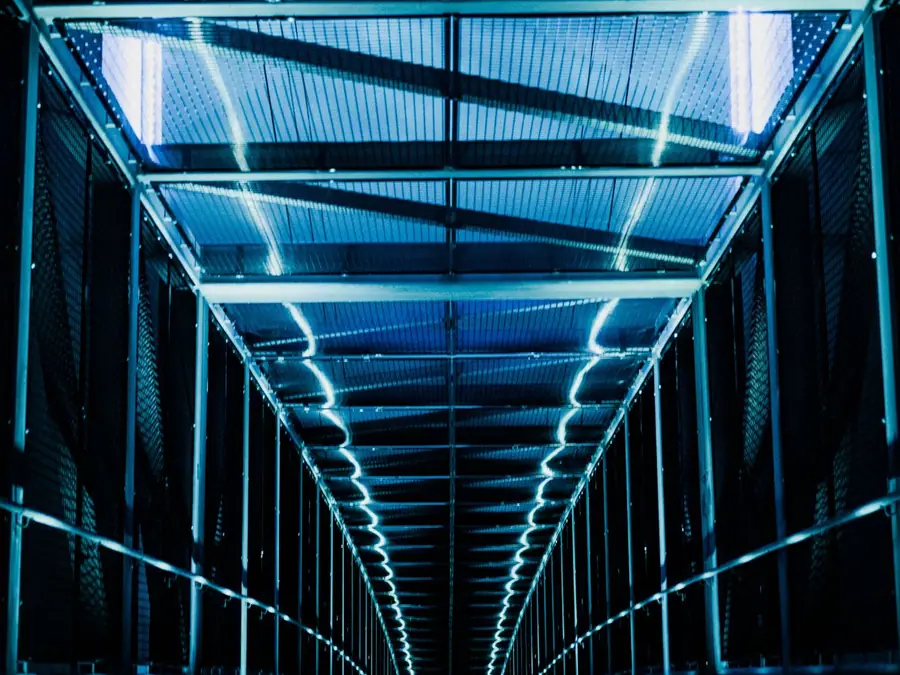
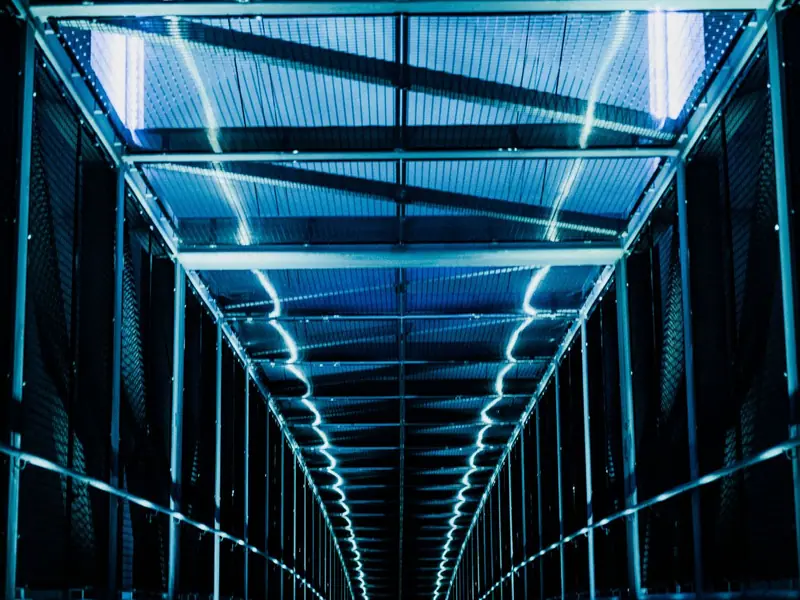
Services: photos for the three cards; per-slot WebP sizes
- IMG-02 blade chassis (rental), IMG-03 three server systems (supply), IMG-04 optical
  cabling (setup and support): supplied photos, cropped to the 16:10 card slot,
  desktop 1000x625 (61-90 KB), phone 800x500 (44-62 KB); originals kept in photos/src
- Status "стоковое фото"; source and licence still to be confirmed (docs/PHOTO-CREDITS.md)
- npm run photos sizes the desktop file by slot (cards 1000 px, big frames up to 1600 px)

Claude-Session: https://claude.ai/code/session_012UahhkYDRWiccmdeJi4vvp

diff --git a/src/content/image-overrides.generated.ts b/src/content/image-overrides.generated.ts
@@ -3,5 +3,8 @@ import type { ImageOverride } from "./image-types";
 import type { ImageId } from "./images";
 
 export const photoOverrides: Partial<Record<ImageId, ImageOverride>> = {
-  "img-01": {"desktop":{"src":"/images/photos/img-01-d.webp","width":1280,"height":1600},"mobile":{"src":"/images/photos/img-01-m.webp","width":900,"height":675},"alt":"Коридор дата-центра: ряды серверных стоек за сетчатыми ограждениями и синяя подсветка, уходящая вдаль","status":"стоковое фото","objectPosition":"50% 72%"},
+  "img-01": {"desktop":{"src":"/images/photos/img-01-d.webp","width":1280,"height":1600},"mobile":{"src":"/images/photos/img-01-m.webp","width":800,"height":600},"alt":"Коридор дата-центра: ряды серверных стоек за сетчатыми ограждениями и синяя подсветка, уходящая вдаль","status":"стоковое фото","objectPosition":"50% 72%"},
+  "img-02": {"desktop":{"src":"/images/photos/img-02-d.webp","width":1000,"height":625},"mobile":{"src":"/images/photos/img-02-m.webp","width":800,"height":500},"alt":"Блейд-шасси крупным планом: ряд серверных модулей с индикаторами и один выдвинутый модуль в синей подсветке","status":"стоковое фото","objectPosition":"55% 50%"},
+  "img-03": {"desktop":{"src":"/images/photos/img-03-d.webp","width":1000,"height":625},"mobile":{"src":"/images/photos/img-03-m.webp","width":800,"height":500},"alt":"Три серверных системы в корпусах на полке в синей подсветке","status":"стоковое фото","objectPosition":"50% 55%"},
+  "img-04": {"desktop":{"src":"/images/photos/img-04-d.webp","width":1000,"height":625},"mobile":{"src":"/images/photos/img-04-m.webp","width":800,"height":500},"alt":"Оптическая коммутация: патч-корды с разъёмами LC и маркировкой, подключённые к кроссовой панели","status":"стоковое фото","objectPosition":"35% 50%"},
 };

diff --git a/tools/images/generate.py b/tools/images/generate.py
@@ -125,7 +125,7 @@ def main() -> None:
         "```",
         "",
         "`npm run photos` обрезает каждое фото точно под пропорции слота (рабочее поле — `objectPosition`), "
-        "сжимает в WebP (десктоп до 1600 px по длинной стороне, телефон до 900 px; бюджет ~220 и ~110 КБ), пишет файлы в "
+        "сжимает в WebP (десктоп по размеру слота: 1000 px для карточек, до 1600 px для крупных кадров; телефон до 800 px; бюджет ~220 и ~110 КБ), пишет файлы в "
         "`public/images/photos/`, подключает их через `src/content/image-overrides.generated.ts` и обновляет "
         "`docs/PHOTO-CREDITS.md`. Статус: `реальная фотография` (подписи не нужны) или `стоковое фото` "
         "(на картинке и в подписи галереи появляется «Иллюстративное фото», кадр не выдаётся за площадку компании).",

diff --git a/docs/IMAGES.md b/docs/IMAGES.md
@@ -13,7 +13,7 @@
              "credit": { "author": "Имя автора", "url": "https://www.pexels.com/photo/…", "title": "Название", "license": "Pexels License" } } }
 ```
 
-`npm run photos` обрезает каждое фото точно под пропорции слота (рабочее поле — `objectPosition`), сжимает в WebP (десктоп до 1600 px по длинной стороне, телефон до 900 px; бюджет ~220 и ~110 КБ), пишет файлы в `public/images/photos/`, подключает их через `src/content/image-overrides.generated.ts` и обновляет `docs/PHOTO-CREDITS.md`. Статус: `реальная фотография` (подписи не нужны) или `стоковое фото` (на картинке и в подписи галереи появляется «Иллюстративное фото», кадр не выдаётся за площадку компании).
+`npm run photos` обрезает каждое фото точно под пропорции слота (рабочее поле — `objectPosition`), сжимает в WebP (десктоп по размеру слота: 1000 px для карточек, до 1600 px для крупных кадров; телефон до 800 px; бюджет ~220 и ~110 КБ), пишет файлы в `public/images/photos/`, подключает их через `src/content/image-overrides.generated.ts` и обновляет `docs/PHOTO-CREDITS.md`. Статус: `реальная фотография` (подписи не нужны) или `стоковое фото` (на картинке и в подписи галереи появляется «Иллюстративное фото», кадр не выдаётся за площадку компании).
 
 ## Как заменить картинку вручную
 

diff --git a/docs/PHOTO-CREDITS.md b/docs/PHOTO-CREDITS.md
@@ -7,3 +7,6 @@
 | Слот | Фото | Автор | Лицензия |
 |---|---|---|---|
 | img-01 | Коридор дата-центра (первый экран) | источник не указан | уточнить |
+| img-02 | Серверное шасси (карточка «Аренда GPU-серверов») | источник не указан | уточнить |
+| img-03 | Комплект серверов (карточка «Поставка оборудования») | источник не указан | уточнить |
+| img-04 | Коммутация оборудования (карточка «Настройка и сопровождение») | источник не указан | уточнить |
